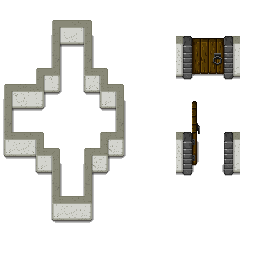
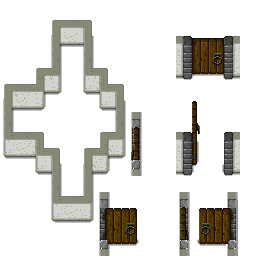
add functional door to garden house

Changed region(s): [[0.6875, 0.75, 0.9375, 1.0], [0.375, 0.75, 0.5625, 1.0], [0.5, 0.4375, 0.5625, 0.6875]]

diff --git a/js/sparkAssets.js b/js/sparkAssets.js
@@ -402,6 +402,10 @@ class SparkAssets {
             { src: "img/stuccoWalls1.png", loader: "Sheet", refs: [
                 {tag: "woodDoor.close", cls: "Sprite", width: 16*4, height: 16*5, x: 16*11, y: 16*0 },
                 {tag: "woodDoor.open", cls: "Sprite", width: 16*4, height: 16*5, x: 16*11, y: 16*6 },
+                Templates.xsprite("woodDoor.left.close", 8, 7, {width: 16*3, height: 16*4}),
+                Templates.xsprite("woodDoor.left.open",  6, 12, {width: 16*3, height: 16*4}),
+                Templates.xsprite("woodDoor.right.close",9, 12, {width: 16*3, height: 16*4}),
+                Templates.xsprite("woodDoor.right.open", 12, 12, {width: 16*3, height: 16*4}),
             ]},
 
             { src: "img/stuccoWalls2.png", loader: "Sheet", refs: [
@@ -455,13 +459,13 @@ class SparkAssets {
             },
 
             { tag: "floorRelay", 
-            cls: "Animator", 
-            animations: { 
-                [ModelState.idle]: { cls: "Media", tag: "floorRelay.idle" }, 
-                [ModelState.sparked]: { cls: "Media", tag: "floorRelay.sparked" }, 
-                [ModelState.powered]: { cls: "Media", tag: "floorRelay.powered" }, 
+                cls: "Animator", 
+                animations: { 
+                    [ModelState.idle]: { cls: "Media", tag: "floorRelay.idle" }, 
+                    [ModelState.sparked]: { cls: "Media", tag: "floorRelay.sparked" }, 
+                    [ModelState.powered]: { cls: "Media", tag: "floorRelay.powered" }, 
+                },
             },
-        },
 
             { tag: "woodDoor", 
                 cls: "Animator", 
@@ -477,6 +481,22 @@ class SparkAssets {
                     [ModelState.idle]: { cls: "Media", tag: "woodDoor.top.close" }, 
                     [ModelState.close]: { cls: "Media", tag: "woodDoor.top.close" }, 
                     [ModelState.open]: { cls: "Media", tag: "woodDoor.top.open" }, 
+                },
+            },
+
+            { tag: "woodDoor.left", 
+                cls: "Animator", 
+                animations: { 
+                    [ModelState.close]: { cls: "Media", tag: "woodDoor.left.close" }, 
+                    [ModelState.open]: { cls: "Media", tag: "woodDoor.left.open" }, 
+                },
+            },
+
+            { tag: "woodDoor.right", 
+                cls: "Animator", 
+                animations: { 
+                    [ModelState.close]: { cls: "Media", tag: "woodDoor.right.close" }, 
+                    [ModelState.open]: { cls: "Media", tag: "woodDoor.right.open" }, 
                 },
             },
 
@@ -1071,6 +1091,24 @@ class SparkAssets {
             Templates.object("o0p", "vhouse.rune", "SparkBase", { 
                 powered: false,
                 offx: 16, offy: -16, 
+            }),
+
+            Templates.object("o0q", "woodDoor.left", "Door", {
+                offx: 16, offy: -24,
+                approachOffsets: [{x:-16, y:0},  {x:16, y:0}],
+                exitOffsets:     [{x:16, y:0}, {x:-16, y:0}],
+                xopenSfx: { cls: "Media", tag: "doorOpening"}, 
+                xcloseSfx: { cls: "Media", tag: "doorClosing"}, 
+                xcollider: { offx: -16, width: 8, offy: 24, height:24 }, 
+            }),
+
+            Templates.object("o0r", "woodDoor.right", "Door", {
+                offx: 8, offy: -32,
+                approachOffsets: [{x:0, y:16},  {x:16, y:16},  {x:0, y:-32}, {x:16, y:-32}],
+                exitOffsets:     [{x:0, y:-32}, {x:16, y:-32}, {x:0, y:16},  {x:16, y:16}],
+                xopenSfx: { cls: "Media", tag: "doorOpening"}, 
+                xcloseSfx: { cls: "Media", tag: "doorClosing"}, 
+                xcollider: { offy: 24, width:48, height:24 }, 
             }),
 
             // ------------------------------------------------------------------------------

diff --git a/js/worldGen.js b/js/worldGen.js
@@ -1447,7 +1447,7 @@ class WorldGen {
                     "0000","0X5h","000L","0000","0000","0000","0X5g","0000",
                     "0000","0X5h","0o02","0000","0000","0000","0X5g","0000",
                     "0000","0X5h","0000","0000","0o0j","0000","0X5g","0000",
-                    "0000","0X5g","0000","0000","0000","0000","0X5g","0000",
+                    "0000","0o0q","0000","0000","0000","0000","0X5g","0000",
                     "0000","0X5j","0X5b","0X5b","0X5b","0X5b","0X5i","0000",
                     "0000","0X5m","0X5e","0X5e","0X5e","0X5e","0X5l","0000",
                 ],
